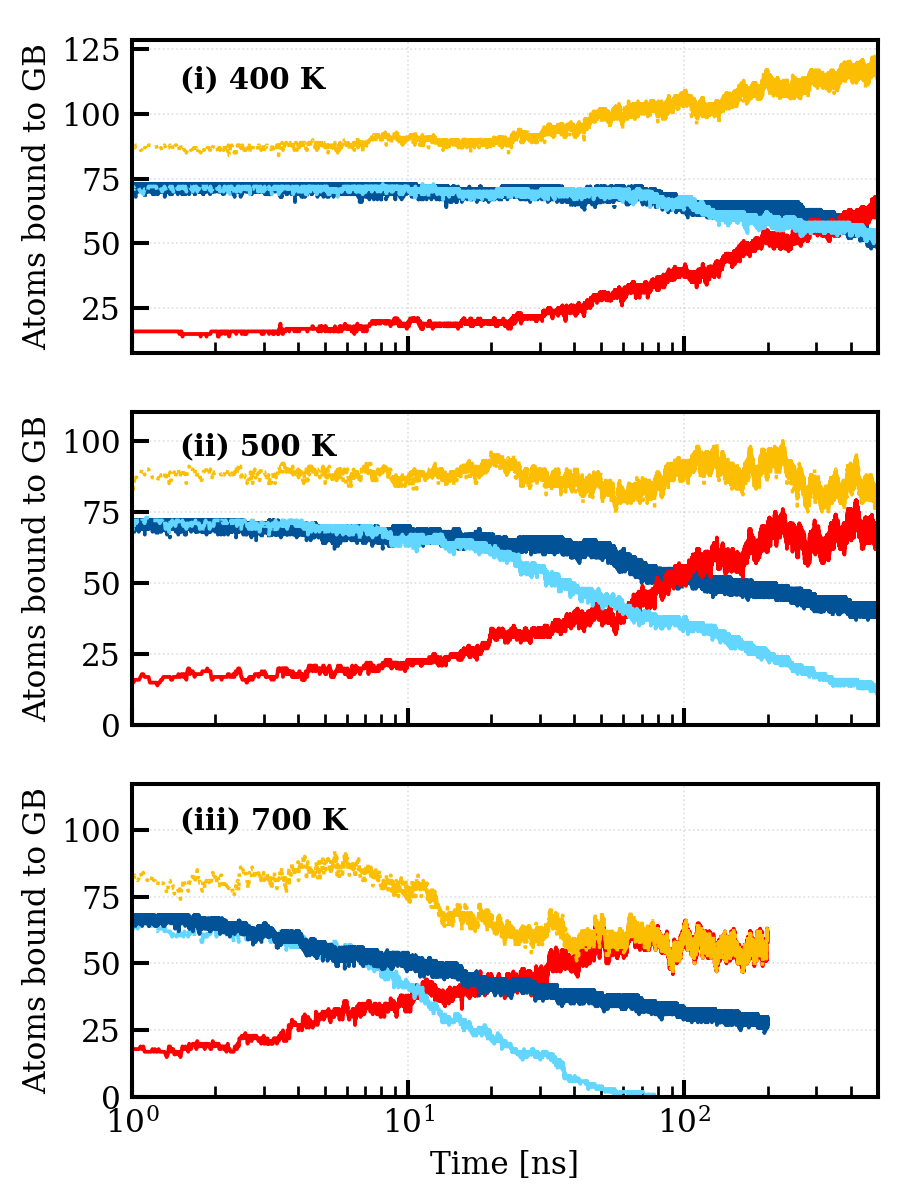
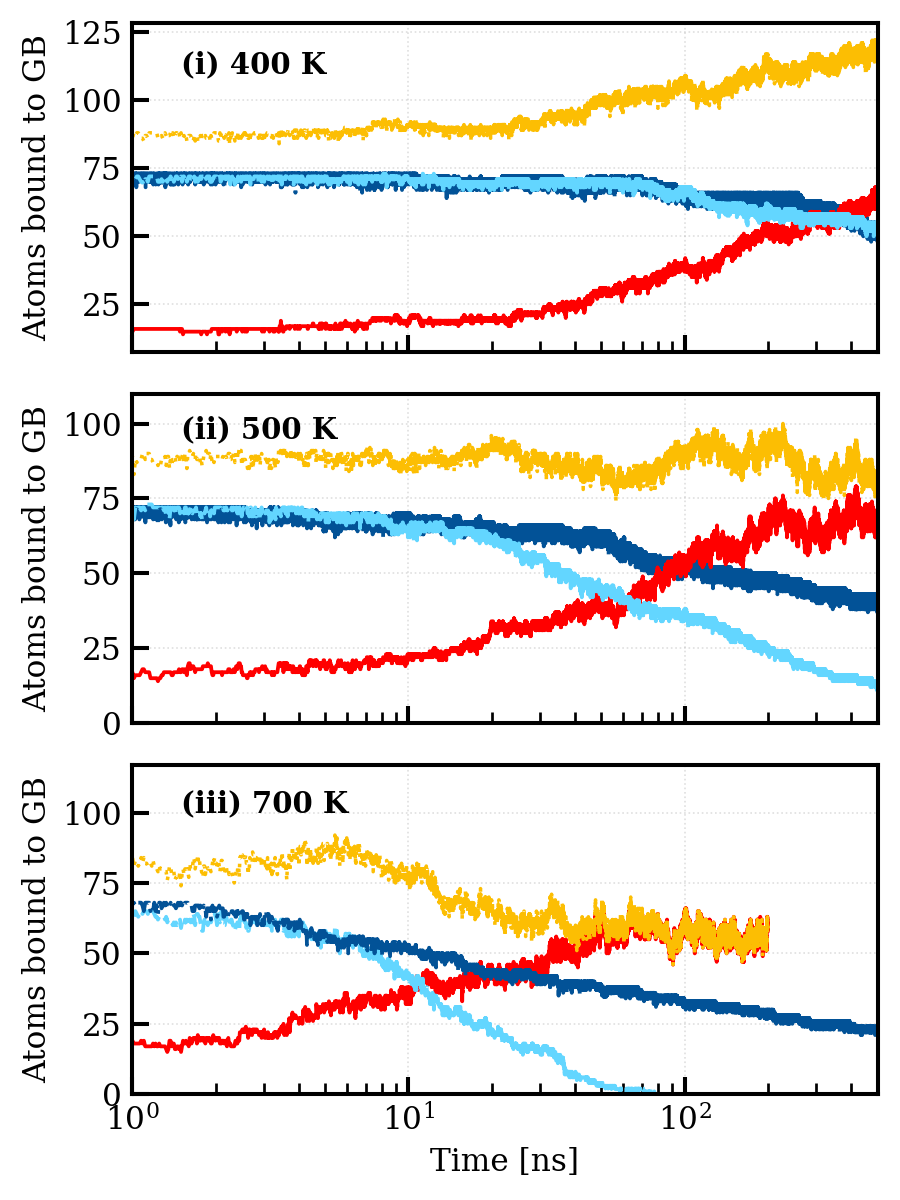
update plots with 700K data

diff --git a/plotting-scripts/plot_2Vac_isoEx_comp.py b/plotting-scripts/plot_2Vac_isoEx_comp.py
@@ -14,7 +14,7 @@ tTH_diff  = readData(path+'2Vac_2000W_0H_10T_500K_1000ns/HinVac.out', [0,1,2])
 tTH_isoEx_400K = readData(path+'2Vac_2000W_20H_10T_400K_700ns/HinVac.out', [0,1,2])
 tT_diff_400K  = readData(path+'2Vac_2000W_0H_10T_400K_700ns/HinVac.out', [0,1,2])
 tTH_isoEx_700K = readData(path+'2Vac_2000W_20H_10T_700K_100ns/HinVac.out', [0,1,2])
-tT_diff_700K  = readData(path+'2Vac_2000W_0H_10T_700K_100ns/HinVac.out', [0,1,2])
+tT_diff_700K  = readData(path+'2Vac_2000W_0H_10T_700K_1000ns/HinVac.out', [0,1,2])
 
 # Convert timesteps --> time in ns
 cf = 1e-6
@@ -76,7 +76,7 @@ plt.subplot(3,1,3)
 plotter(tTH_isoEx_700K[init:final:step, 0], tTH_isoEx_700K[init:final:step,2], isoEx_style['H_iso'], isoEx_labels['H_iso'])
 plotter(tTH_isoEx_700K[init:final:step, 0], tTH_isoEx_700K[init:final:step,1], isoEx_style['T_iso'], isoEx_labels['T_iso'])
 plotter(tTH_isoEx_700K[init:final:step, 0], tTH_isoEx_700K[init:final:step,1]+tTH_isoEx_700K[init:final:step,2], isoEx_style['H+T'], isoEx_labels['H+T'])
-plotter(tT_diff_700K[0:len(tTH_isoEx_700K[:, 0]), 0], tT_diff_700K[0:len(tTH_isoEx_700K[:, 0]), 1], isoEx_style['T_diff'], isoEx_labels['T_diff'])
+plotter(tT_diff_700K[init:final:step, 0], tT_diff_700K[init:final:step, 1], isoEx_style['T_diff'], isoEx_labels['T_diff'])
 plt.xlim((1, xulim))
 plt.ylim((0,12))
 plt.xlabel(xlbl)
@@ -127,7 +127,7 @@ plt.subplot(3,1,3)
 plotter(tTH_isoEx_700K[init:final:step, 0], tTH_isoEx_700K[init:final:step,2], isoEx_style['H_iso'], isoEx_labels['H_iso'])
 plotter(tTH_isoEx_700K[init:final:step, 0], tTH_isoEx_700K[init:final:step,1], isoEx_style['T_iso'], isoEx_labels['T_iso'])
 plotter(tTH_isoEx_700K[init:final:step, 0], tTH_isoEx_700K[init:final:step,1]+tTH_isoEx_700K[init:final:step,2], isoEx_style['H+T'], isoEx_labels['H+T'])
-plotter(tT_diff_700K[0:len(tTH_isoEx_700K[:, 0]), 0], tT_diff_700K[0:len(tTH_isoEx_700K[:, 0]), 1], isoEx_style['T_diff'], isoEx_labels['T_diff'])
+plotter(tT_diff_700K[init:final:step, 0], tT_diff_700K[init:final:step, 1], isoEx_style['T_diff'], isoEx_labels['T_diff'])
 plt.xlim((1, xulim))
 plt.ylim((0,12))
 plt.xlabel(xlbl)

diff --git a/plotting-scripts/plot_GB_isoEx_comp.py b/plotting-scripts/plot_GB_isoEx_comp.py
@@ -14,7 +14,7 @@ tT_diff_400K = readData(path+'yGB_3000W_0H_73T_400K_550ns/HinGB.out', [0,1])
 tTH_isoEx_500K = readData(path+'yGB_3000W_100H_73T_500K_500ns/HinGB.out', [0,1,2])
 tT_diff_500K = readData(path+'yGB_3000W_0H_73T_500K_500ns/HinGB.out', [0,1])
 tTH_isoEx_700K = readData(path+'yGB_3000W_100H_73T_700K_200ns/HinGB.out', [0,1,2])
-tT_diff_700K = readData(path+'yGB_3000W_0H_73T_700K_200ns/HinGB.out', [0,1])
+tT_diff_700K = readData(path+'yGB_3000W_0H_73T_700K_1000ns/HinGB.out', [0,1])
 
 # Convert timesteps --> time in ns
 cf = 1e-6
@@ -76,7 +76,7 @@ plt.subplot(3,1,3)
 plotter(tTH_isoEx_700K[init:final:step, 0], tTH_isoEx_700K[init:final:step,2], isoEx_style['H_iso'], isoEx_labels['H_iso'])
 plotter(tTH_isoEx_700K[init:final:step, 0], tTH_isoEx_700K[init:final:step,1], isoEx_style['T_iso'], isoEx_labels['T_iso'])
 plotter(tTH_isoEx_700K[init:final:step, 0], tTH_isoEx_700K[init:final:step,1]+tTH_isoEx_700K[init:final:step,2], isoEx_style['H+T'], isoEx_labels['H+T'])
-plotter(tT_diff_700K[0:len(tTH_isoEx_700K[:, 0]), 0], tT_diff_700K[0:len(tTH_isoEx_700K[:, 0]), 1], isoEx_style['T_diff'], isoEx_labels['T_diff'])
+plotter(tT_diff_700K[init:final:step, 0], tT_diff_700K[init:final:step, 1], isoEx_style['T_diff'], isoEx_labels['T_diff'])
 plt.xlim((1, xulim))
 plt.ylim((0, 100))
 plt.xlabel(xlbl)
@@ -128,7 +128,7 @@ plt.subplot(3,1,3)
 plotter(tTH_isoEx_700K[init:final:step, 0], tTH_isoEx_700K[init:final:step,2], isoEx_style['H_iso'], isoEx_labels['H_iso'])
 plotter(tTH_isoEx_700K[init:final:step, 0], tTH_isoEx_700K[init:final:step,1], isoEx_style['T_iso'], isoEx_labels['T_iso'])
 plotter(tTH_isoEx_700K[init:final:step, 0], tTH_isoEx_700K[init:final:step,1]+tTH_isoEx_700K[init:final:step,2], isoEx_style['H+T'], isoEx_labels['H+T'])
-plotter(tT_diff_700K[0:len(tTH_isoEx_700K[:, 0]), 0], tT_diff_700K[0:len(tTH_isoEx_700K[:, 0]), 1], isoEx_style['T_diff'], isoEx_labels['T_diff'])
+plotter(tT_diff_700K[init:final:step, 0], tT_diff_700K[init:final:step, 1], isoEx_style['T_diff'], isoEx_labels['T_diff'])
 plt.xlim((1, xulim))
 plt.ylim((0, 117))
 plt.xlabel(xlbl)

diff --git a/plotting-scripts/plot_1Vac_isoEx_comp.py b/plotting-scripts/plot_1Vac_isoEx_comp.py
@@ -16,7 +16,7 @@ tTH_isoEx_700K = readData(path+'1Vac_2000W_20H_6T_700K_100ns/HinVac.out', [0,1,2
 tT_diff_400K = readData(path+'1Vac_2000W_0H_6T_400K_3200ns/HinVac.out', [0,1])
 #tT_diff_450K = readData(path+'1Vac_2000W_0H_6T_450K_1600ns/HinVac.out', [0,1]) 
 tT_diff_500K = readData(path+'1Vac_2000W_0H_6T_500K_800ns/HinVac.out', [0,1])
-tT_diff_700K = readData(path+'1Vac_2000W_0H_6T_700K_100ns/HinVac.out', [0,1]) 
+tT_diff_700K = readData(path+'1Vac_2000W_0H_6T_700K_1100ns/HinVac.out', [0,1]) 
 
 # Convert timesteps --> time in ns
 cf = 1e-6
@@ -93,7 +93,7 @@ plt.subplot(3,1,3)
 plotter(tTH_isoEx_700K[init:final:step, 0], tTH_isoEx_700K[init:final:step,2], isoEx_style['H_iso'], isoEx_labels['H_iso'])
 plotter(tTH_isoEx_700K[init:final:step, 0], tTH_isoEx_700K[init:final:step,1], isoEx_style['T_iso'], isoEx_labels['T_iso'])
 plotter(tTH_isoEx_700K[init:final:step, 0], tTH_isoEx_700K[init:final:step,1]+tTH_isoEx_700K[init:final:step,2], isoEx_style['H+T'], isoEx_labels['H+T'])
-plotter(tT_diff_700K[0:len(tTH_isoEx_700K[:, 0]), 0], tT_diff_700K[0:len(tTH_isoEx_700K[:, 0]), 1], isoEx_style['T_diff'], isoEx_labels['T_diff'])
+plotter(tT_diff_700K[init:final:step, 0], tT_diff_700K[init:final:step, 1], isoEx_style['T_diff'], isoEx_labels['T_diff'])
 plt.xlim((1, xulim))
 plt.xlabel(xlbl)
 plt.ylabel(ylbl)
@@ -157,7 +157,7 @@ plt.subplot(3,1,3)
 plotter(tTH_isoEx_700K[init:final:step, 0], tTH_isoEx_700K[init:final:step,2], isoEx_style['H_iso'], isoEx_labels['H_iso'])
 plotter(tTH_isoEx_700K[init:final:step, 0], tTH_isoEx_700K[init:final:step,1], isoEx_style['T_iso'], isoEx_labels['T_iso'])
 plotter(tTH_isoEx_700K[init:final:step, 0], tTH_isoEx_700K[init:final:step,1]+tTH_isoEx_700K[init:final:step,2], isoEx_style['H+T'], isoEx_labels['H+T'])
-plotter(tT_diff_700K[0:len(tTH_isoEx_700K[:, 0]), 0], tT_diff_700K[0:len(tTH_isoEx_700K[:, 0]), 1], isoEx_style['T_diff'], isoEx_labels['T_diff'])
+plotter(tT_diff_700K[init:final:step, 0], tT_diff_700K[init:final:step, 1], isoEx_style['T_diff'], isoEx_labels['T_diff'])
 plt.xlim((1, xulim))
 plt.xlabel(xlbl)
 plt.ylabel(ylbl)

diff --git a/plotting-scripts/plot_disloc_isoEx_comp.py b/plotting-scripts/plot_disloc_isoEx_comp.py
@@ -75,7 +75,7 @@ plt.subplot(3,1,3)
 plotter(tTH_isoEx_700K[init:final:step, 0], tTH_isoEx_700K[init:final:step,2], isoEx_style['H_iso'], isoEx_labels['H_iso'])
 plotter(tTH_isoEx_700K[init:final:step, 0], tTH_isoEx_700K[init:final:step,1], isoEx_style['T_iso'], isoEx_labels['T_iso'])
 plotter(tTH_isoEx_700K[init:final:step, 0], tTH_isoEx_700K[init:final:step,1]+tTH_isoEx_700K[init:final:step,2], isoEx_style['H+T'], isoEx_labels['H+T'])
-plotter(tT_diff_700K[0:len(tTH_isoEx_700K[:, 0]), 0], tT_diff_700K[0:len(tTH_isoEx_700K[:, 0]), 1], isoEx_style['T_diff'], isoEx_labels['T_diff'])
+plotter(tT_diff_700K[init:final:step, 0], tT_diff_700K[init:final:step, 1], isoEx_style['T_diff'], isoEx_labels['T_diff'])
 plt.xlim((1, xulim))
 plt.xlabel(xlbl)
 plt.ylabel(ylbl)
@@ -126,7 +126,7 @@ plt.subplot(3,1,3)
 plotter(tTH_isoEx_700K[init:final:step, 0], tTH_isoEx_700K[init:final:step,2], isoEx_style['H_iso'], isoEx_labels['H_iso'])
 plotter(tTH_isoEx_700K[init:final:step, 0], tTH_isoEx_700K[init:final:step,1], isoEx_style['T_iso'], isoEx_labels['T_iso'])
 plotter(tTH_isoEx_700K[init:final:step, 0], tTH_isoEx_700K[init:final:step,1]+tTH_isoEx_700K[init:final:step,2], isoEx_style['H+T'], isoEx_labels['H+T'])
-plotter(tT_diff_700K[0:len(tTH_isoEx_700K[:, 0]), 0], tT_diff_700K[0:len(tTH_isoEx_700K[:, 0]), 1], isoEx_style['T_diff'], isoEx_labels['T_diff'])
+plotter(tT_diff_700K[init:final:step, 0], tT_diff_700K[init:final:step, 1], isoEx_style['T_diff'], isoEx_labels['T_diff'])
 plt.xlim((1, xulim))
 plt.xlabel(xlbl)
 plt.ylabel(ylbl)
